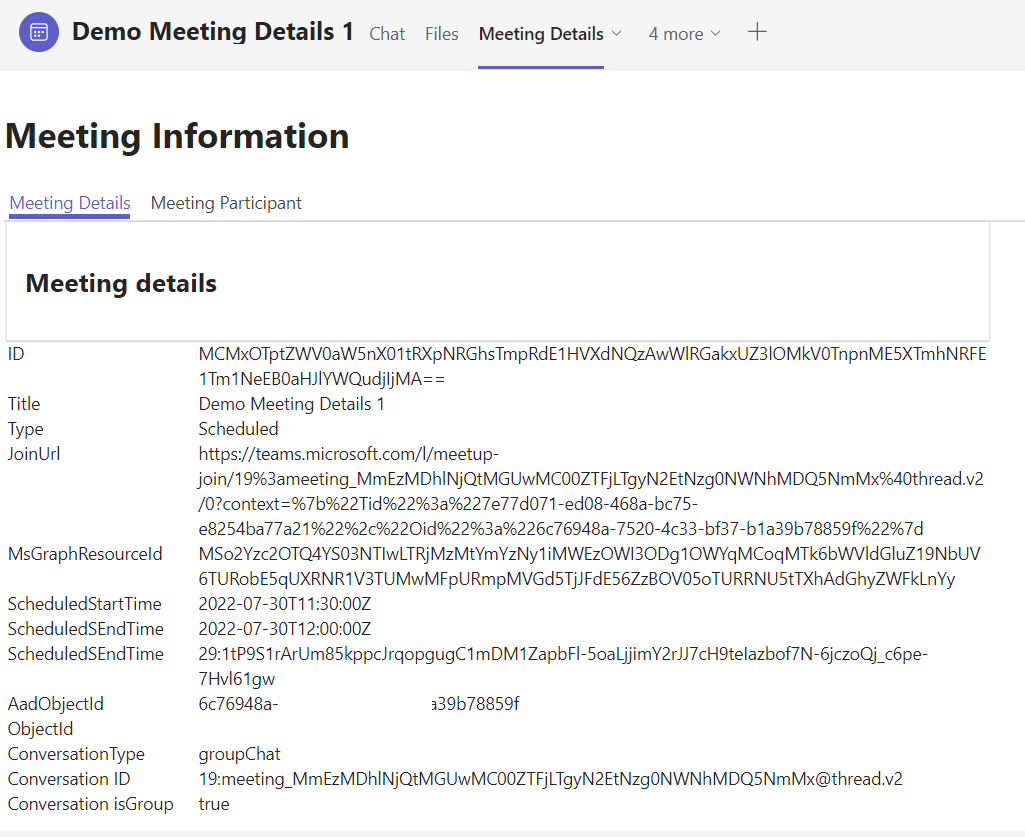
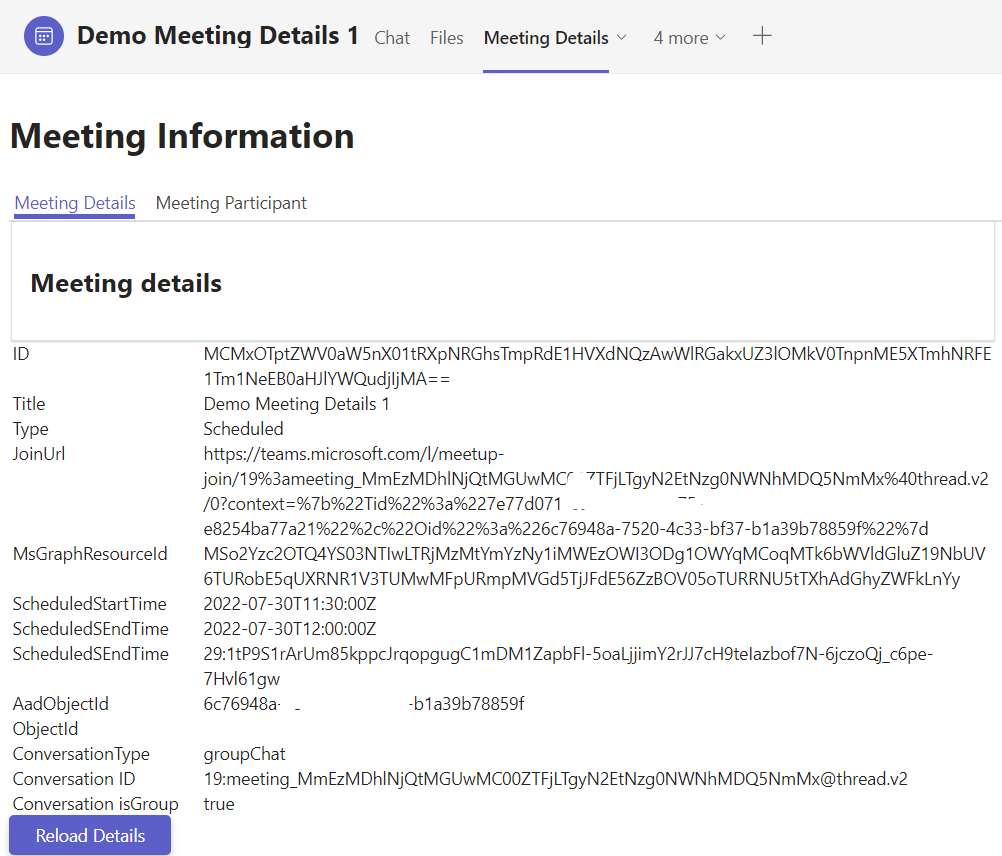
Implemented Reload Meeting Details

diff --git a/src/client/meetingDetailsTab/MeetingDetailsTab.tsx b/src/client/meetingDetailsTab/MeetingDetailsTab.tsx
@@ -16,6 +16,7 @@ import { MeetingParticipant } from "./components/MeetingParticipant";
 export const MeetingDetailsTab = () => {
   const [{ inTeams, theme, context }] = useTeams();
   const [entityId, setEntityId] = useState<string | undefined>();
+  const [meetingId, setMeetingId] = useState<string>();
   const [meetingDetails, setMeetingDetails] = useState<IMeetingDetails>();
   const [meetingParticipant, setMeetingParticipant] = useState<IMeetingParticipant>();
   const [activeMenuIndex, setActiveMenuIndex] = useState<number>(0);
@@ -36,8 +37,8 @@ export const MeetingDetailsTab = () => {
     setMeetingDetails(response.data); 
   };
 
-  const reloadDetails = () => {
-    TaskCard!.actions![0].data!.data.meetingId = context?.meeting!.id!;
+  const reloadDetails = React.useCallback(() => {
+    TaskCard!.actions![0].data!.data.meetingId = meetingId!;
     const taskCardAttachment = {
                                 contentType: "application/vnd.microsoft.card.adaptive",
                                 content: TaskCard } 
@@ -50,12 +51,13 @@ export const MeetingDetailsTab = () => {
     };
 
     tasks.startTask(taskModuleInfo, reloadDetailsCB);
-  };
+  }, [meetingId]);
 
-  const reloadDetailsCB = () => {
-      // tasks.submitTask({ meetingId: context?.meeting?.id }, process.env.MICROSOFT_APP_ID);        
-      tasks.submitTask();
-  };
+  const reloadDetailsCB = React.useCallback(() => {
+    getDetails(meetingId!);     
+    // tasks.submitTask();
+  }, [meetingId]);
+
   const getParticipant = async (meetingID: string, userId, tenantId) => {        
     const response = await Axios.post(`https://${process.env.PUBLIC_HOSTNAME}/api/getParticipantDetails/${meetingID}/${userId}/${tenantId}`);
     setMeetingParticipant(response.data);
@@ -79,6 +81,7 @@ export const MeetingDetailsTab = () => {
       if (context.meeting) {
         getDetails(context.meeting.id);
         getParticipant(context.meeting.id, context.user?.id, context.user?.tenant?.id);
+        setMeetingId(context.meeting.id);
       }
     }
   }, [context]);

diff --git a/src/server/bots/BotActivityHandler.ts b/src/server/bots/BotActivityHandler.ts
@@ -22,13 +22,12 @@ export class BotActivityHandler extends TeamsActivityHandler {
     });
 
     this.onConversationUpdate(async (context, next) => {
-      store.setItem("serviceUrl", context.activity.serviceUrl);       
+      store.setItem("serviceUrl", context.activity.serviceUrl);
     });
   }
 
   protected async handleTeamsTaskModuleSubmit(_context: TurnContext, _taskModuleRequest: TaskModuleRequest): Promise<any> {
-    log(_context.activity);
-    log(_taskModuleRequest);
+    log(_context.activity);    
 
     switch (_taskModuleRequest.data.verb) {
       case "getMeetingDetails":
@@ -43,13 +42,14 @@ export class BotActivityHandler extends TeamsActivityHandler {
             value: {
               title: "Your Meeting Details",
               height: 500,
-              width: "medium",
+              width: "large",
               card: CardFactory.adaptiveCard(card),
             } as TaskModuleTaskInfo
           }
         };
         return Promise.resolve(Response);
       default:
+        store.setItem("serviceUrl", _context.activity.serviceUrl);
         return null;
     }
 }

diff --git a/src/client/meetingDetailsTab/components/MeetingDetails.tsx b/src/client/meetingDetailsTab/components/MeetingDetails.tsx
@@ -2,9 +2,9 @@ import * as React from "react";
 import { Button, Grid, Segment, Text } from "@fluentui/react-northstar";
 
 export const MeetingDetails = (props) => {
-  const reloadDetails = async () => { // ToDo: useCallback
+  const reloadDetails = React.useCallback(() => {
     props.reloadDetails();
-  };
+  },[props.meetingDetails?.details.id]); // eslint-disable-line react-hooks/exhaustive-deps
 
   return (
     <div>
@@ -54,7 +54,7 @@ export const MeetingDetails = (props) => {
         <Text content="Conversation isGroup" />
         <Text content={props.meetingDetails?.conversation.isGroup.toString()} />
       </Grid>
-      <Button title="Snd Message" onClick={reloadDetails}>Show Details</Button>
+      <Button title="Snd Message" onClick={reloadDetails} primary>Reload Details</Button>
     </div>
   );
 }

diff --git a/src/model/meetingDetailsCard.ts b/src/model/meetingDetailsCard.ts
@@ -93,10 +93,14 @@ const detailsCard = {
         verb: "close",
         msteams: {
           type: "task/submit"
-        }
+        },
+        meetingDetails: {}
       }
     }
   ],
+  "msteams": {
+    "width": "Full"
+  },
   "$schema": "http://adaptivecards.io/schemas/adaptive-card.json",
   "version": "1.4"
 };
@@ -115,5 +119,6 @@ export const getMeetingDetailsCard = (meetingDetails: IMeetingDetails) => {
   detailsCard.body![1].facts![9].value = meetingDetails.organizer.id;
   detailsCard.body![1].facts![10].value = meetingDetails.organizer.aadObjectId;
   detailsCard.body![1].facts![11].value = meetingDetails.organizer.tenantId;
+  detailsCard.actions[0].data.meetingDetails = meetingDetails;
   return detailsCard;
 };

diff --git a/webpack.config.js b/webpack.config.js
@@ -91,7 +91,7 @@ const config = [{
         }]
     },
     plugins: [
-        new webpack.EnvironmentPlugin({ PUBLIC_HOSTNAME: undefined, TAB_APP_ID: null, TAB_APP_URI: null }),
+        new webpack.EnvironmentPlugin({ PUBLIC_HOSTNAME: undefined, MICROSOFT_APP_ID: null, TAB_APP_ID: null, TAB_APP_URI: null }),
         new ForkTsCheckerWebpackPlugin({
             typescript: {
                 configFile: "./src/client/tsconfig.json"

diff --git a/README.md b/README.md
@@ -8,13 +8,17 @@ This sample is a Teams meeting app created using the Teams Yeoman Generator. It'
 
 Meeting Details in Meeting Chat Tab
 
-![OnStageView](assets/07TeamsMeeting_MeetingDetails.png)
+![Meeting Details in Meeting Chat Tab](assets/07TeamsMeeting_MeetingDetails.png)
+
+Meeting Details in Adaptive Card Task Module
+
+![Meeting Details in Adaptive Card Task Module](assets/09TeamsMeeting_MeetingDetails_TaskModule.png)
 
 Participant Details in Meeting Chat Tab
 
-![OnStageView](assets/08TeamsMeeting_ParticipantDetails.png)
+![Participant Details in Meeting Chat Tab](assets/08TeamsMeeting_ParticipantDetails.png)
 
-For further details see the author's [blog post](https://mmsharepoint.wordpress.com/2022/08/04/teams-meeting-details-with-bot-framework-sdk/)
+For further details see the author's [blog post](https://mmsharepoint.wordpress.com/2022/08/)
 
 ## Prerequisites
 
@@ -84,7 +88,8 @@ Version|Date|Author|Comments
 
 This is a Teams Tab meeting app to show up in chatTab or detailsTab
 * Show a tab in pre-meeting experience in chatTab or detailsTab
-* Use a Bot in Teams Meeting app
+* [Use a Bot in Teams Meeting app](https://docs.microsoft.com/en-us/microsoftteams/platform/bots/what-are-bots?WT.mc_id=M365-MVP-5004617)
+* [Chain Task Modules with Adaptive Cards](https://docs.microsoft.com/en-us/microsoftteams/platform/task-modules-and-cards/task-modules/task-modules-bots?tabs=nodejs&WT.mc_id=M365-MVP-5004617#submit-the-result-of-a-task-module)
 * Use [Meeting apps Api references](https://docs.microsoft.com/en-us/microsoftteams/platform/apps-in-teams-meetings/api-references?WT.mc_id=M365-MVP-5004617) to get meeting and participant details
 
 ## Building the manifest
